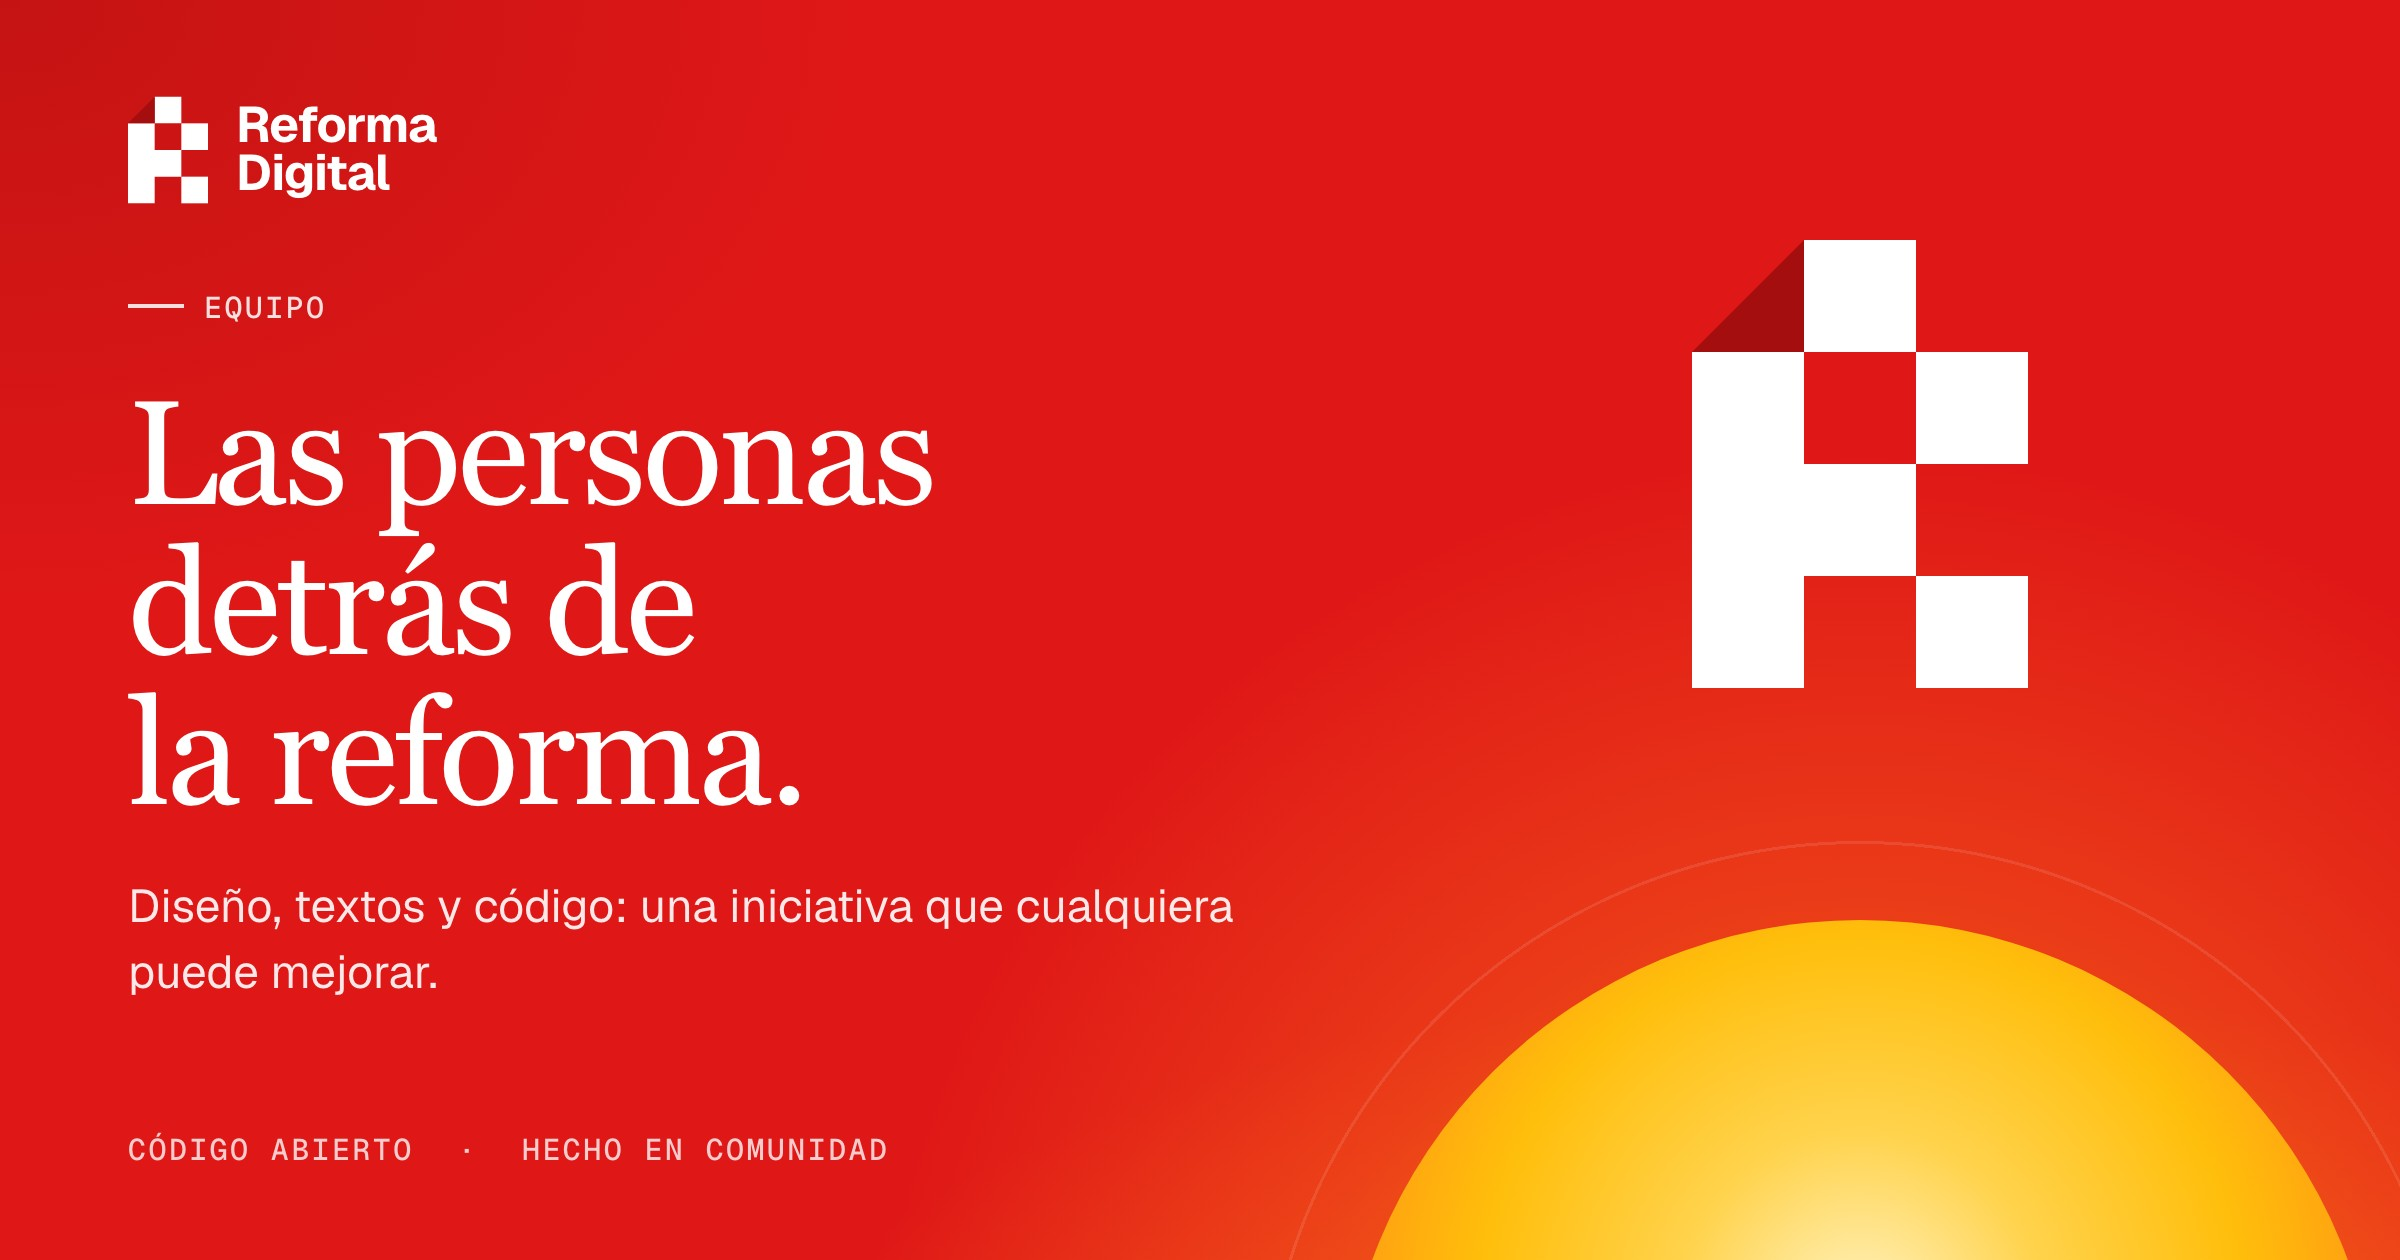
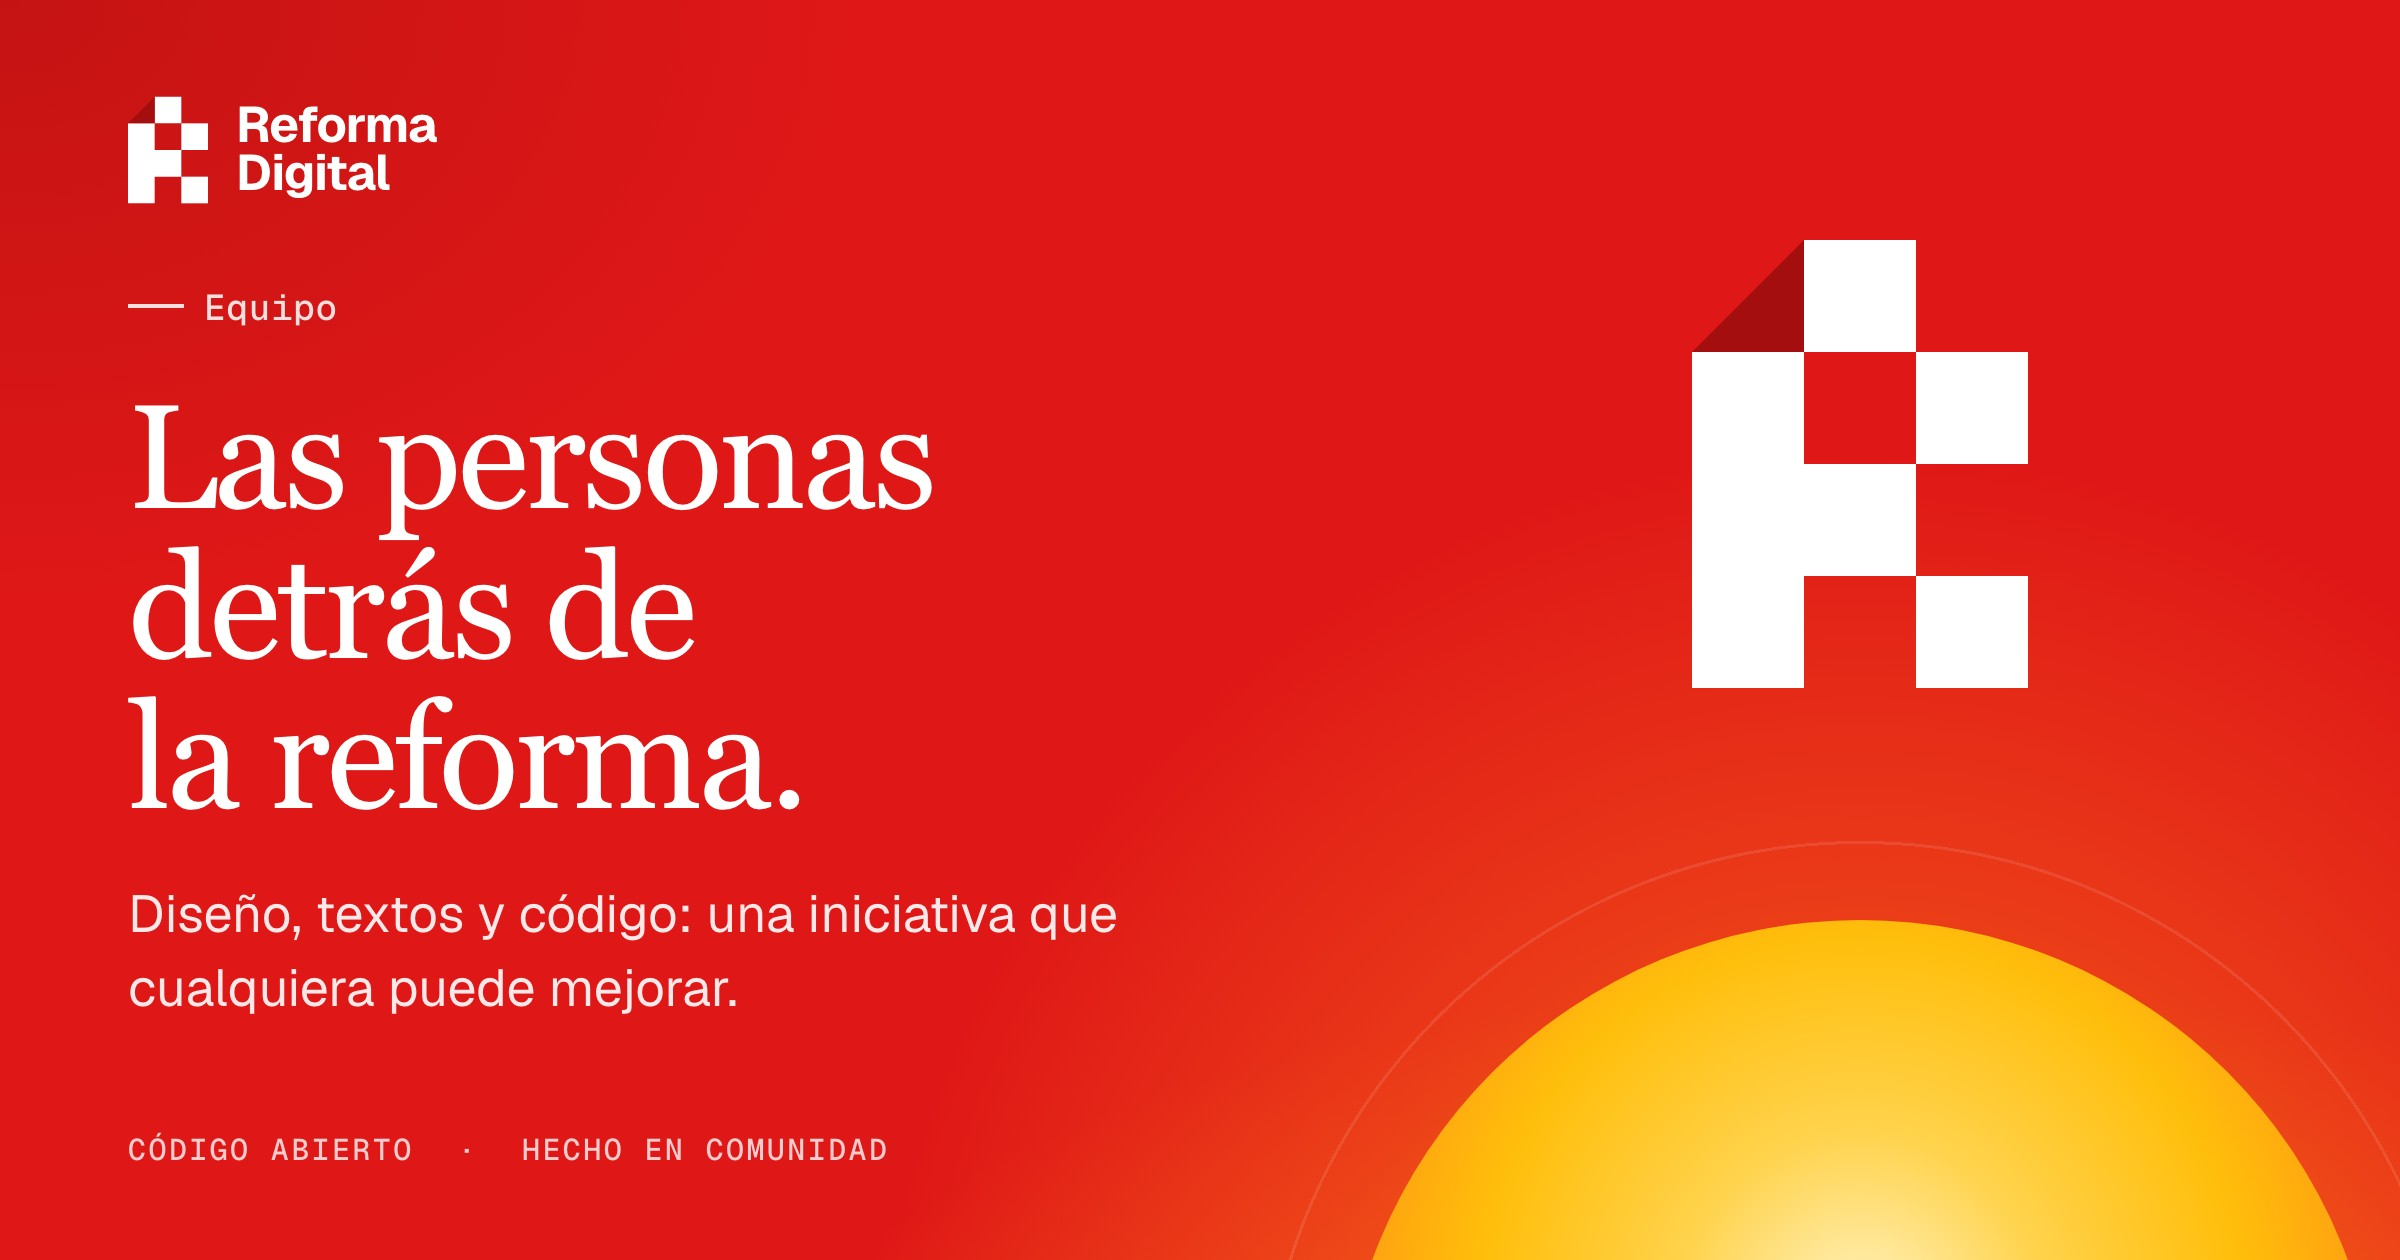
feat(web): añade imágenes OG para El Congreso, Elecciones, la API y el escritorio (#169)
## Change

`/congreso`, `/elecciones`, `/api` y `/escritorio` compartían la imagen
OG de la portada. Ahora cada una tiene la suya:

- **`/congreso`** y **`/elecciones`**: página blanca con el sol pixelado
(`sol-horizonte.png`), como el hero de la sección (DESIGN.md §8.7).
Todas las rutas de cada sección, fichas incluidas, comparten esa imagen.
- **`/api`** y **`/escritorio`**: escena roja de marca, con texto
propio.
- En todas las imágenes, la etiqueta superior pasa a minúsculas (salvo
la inicial y los nombres propios) y crece de 15 a 18 px. El subtítulo
pasa de 23 a 26 px (de 27 a 30 en la portada).

`og/template.html` gana la escena `horizonte`. `render-og.mjs` abre la
plantilla con `page.goto` (en vez de `setContent`) para poder cargar el
PNG de `public/`.

| | |
|---|---|
|
![congreso](https://raw.githubusercontent.com/samuelcorsan/reforma-digital/8751e768cd9f1831b2909cadd63a2bbb846d5aee/apps/web/public/og/congreso.jpg)
|
![elecciones](https://raw.githubusercontent.com/samuelcorsan/reforma-digital/8751e768cd9f1831b2909cadd63a2bbb846d5aee/apps/web/public/og/elecciones.jpg)
|
|
![api](https://raw.githubusercontent.com/samuelcorsan/reforma-digital/8751e768cd9f1831b2909cadd63a2bbb846d5aee/apps/web/public/og/api.jpg)
|
![escritorio](https://raw.githubusercontent.com/samuelcorsan/reforma-digital/8751e768cd9f1831b2909cadd63a2bbb846d5aee/apps/web/public/og/escritorio.jpg)
|
|
[…]

diff --git a/apps/web/og/template.html b/apps/web/og/template.html
@@ -132,6 +132,9 @@
         align-items: center;
         gap: 10px;
         margin-bottom: 26px;
+        font-size: 18px;
+        letter-spacing: 0.02em;
+        text-transform: none;
         color: rgba(255, 255, 255, 0.86);
       }
       .etiqueta::before {
@@ -150,7 +153,7 @@
       }
       .texto {
         margin-top: 22px;
-        font-size: 23px;
+        font-size: 26px;
         line-height: 1.42;
         text-wrap: pretty;
         color: rgba(255, 255, 255, 0.9);
@@ -227,7 +230,7 @@
       [data-escena='portada'] .texto {
         max-width: 44ch;
         margin-top: 24px;
-        font-size: 27px;
+        font-size: 30px;
         line-height: 1.4;
         text-wrap: balance;
       }
@@ -279,6 +282,46 @@
         top: 232px;
         transform: translate(-50%, -50%);
       }
+      /* El Congreso y Elecciones (DESIGN.md §8.7): página blanca y el sol pixelado, nunca bajo texto. */
+      [data-escena='horizonte'] {
+        color: var(--tinta);
+      }
+      [data-escena='horizonte'] main {
+        background: var(--blanco);
+      }
+      [data-escena='horizonte'] :is(.sol, .resplandor, .halos, footer) {
+        display: none;
+      }
+      [data-escena='horizonte'] .etiqueta {
+        color: var(--rojo);
+      }
+      [data-escena='horizonte'] .texto {
+        max-width: 46ch;
+        color: var(--tinta-3);
+        text-wrap: balance;
+      }
+      [data-escena='horizonte'] .horizonte {
+        display: block;
+        left: 50%;
+        bottom: 0;
+        width: calc(360 * 6px);
+        height: calc(32 * 6px);
+        transform: translateX(-50%);
+        image-rendering: pixelated;
+      }
+      [data-escena='horizonte'] .copia {
+        left: 0;
+        right: 0;
+        top: 150px;
+        width: auto;
+        display: flex;
+        flex-direction: column;
+        align-items: center;
+        text-align: center;
+      }
+      [data-escena='horizonte'] h1 {
+        max-width: 960px;
+      }
     </style>
   </head>
   <body data-escena="portada">
@@ -326,6 +369,8 @@
         <rect x="96" y="48" width="48" height="48" fill="var(--blanco)" />
         <rect x="96" y="144" width="48" height="48" fill="var(--blanco)" />
       </svg>
+
+      <img class="escena horizonte" src="../public/congreso/sol-horizonte.png" alt="" />
 
       <footer class="dato">
         <span>Código abierto</span>

diff --git a/apps/web/app/(search)/api/page.tsx b/apps/web/app/(search)/api/page.tsx
@@ -20,7 +20,7 @@ const title = 'API de Reforma Digital';
 const description =
   'La API de Reforma Digital sirve de forma abierta los datos del Congreso de los Diputados: votaciones, preguntas, Diarios de Sesiones y datasets en JSON, sin autenticación y con licencia CC BY 4.0.';
 
-export const metadata: Metadata = pageMetadata({ title, description, path: '/api', og: 'portada' });
+export const metadata: Metadata = pageMetadata({ title, description, path: '/api', og: 'api' });
 
 const graph = [webPage({ name: title, description, path: '/api' }), breadcrumbs('API', '/api')];
 

diff --git a/apps/web/app/(search)/congreso/[[...path]]/page.tsx b/apps/web/app/(search)/congreso/[[...path]]/page.tsx
@@ -48,7 +48,7 @@ export async function generateMetadata({ params }: Props): Promise<Metadata> {
     description:
       'Qué se dijo, cómo se votó y quién te representa. Actividad parlamentaria con datos oficiales, fuentes y análisis identificados como IA.',
     path: href(path.map(encodeURIComponent).join('/')),
-    og: 'portada',
+    og: 'congreso',
   });
 }
 const querySchema = z.object({

diff --git a/apps/web/lib/seo.ts b/apps/web/lib/seo.ts
@@ -4,7 +4,8 @@ import { links, siteUrl } from './site';
 export const siteName = 'Reforma Digital';
 
 // Imágenes de public/og/, generadas con `pnpm landing:og` a partir de og/template.html.
-type OgImage = 'portada' | 'equipo' | 'privacidad';
+type OgImage =
+  'portada' | 'equipo' | 'privacidad' | 'escritorio' | 'api' | 'congreso' | 'elecciones';
 
 export function pageMetadata({
   title,

diff --git a/apps/web/app/(search)/elecciones/[[...path]]/page.tsx b/apps/web/app/(search)/elecciones/[[...path]]/page.tsx
@@ -44,7 +44,7 @@ export async function generateMetadata({ params }: Props): Promise<Metadata> {
       page?.text ??
       'Lo que deja la legislatura, cómo se reparten los 350 escaños, cuarenta y nueve años de elecciones y las encuestas, con datos oficiales.',
     path: electionsHref(path?.join('/')),
-    og: 'portada',
+    og: 'elecciones',
   });
 }
 

diff --git a/apps/web/app/(search)/escritorio/page.tsx b/apps/web/app/(search)/escritorio/page.tsx
@@ -21,7 +21,7 @@ export const metadata: Metadata = pageMetadata({
   title,
   description,
   path: '/escritorio',
-  og: 'portada',
+  og: 'escritorio',
 });
 
 const graph = [
